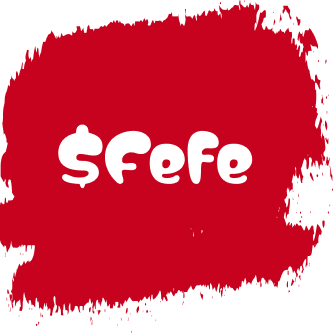
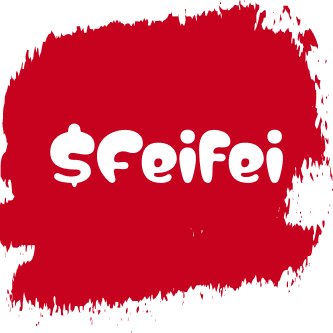
update content

Changed region(s): [[0.1502, 0.3604, 0.8709, 0.5706]]

diff --git a/app/page.tsx b/app/page.tsx
@@ -65,8 +65,8 @@ export default function Home() {
               alfaFont.variable
             )}
           >
-            FEFE, the biggest meme on TRON, every chain needs its Fefe, every
-            fefe has its day.
+            FEIFEI, the biggest meme on TRON, every chain needs its FeiFei,
+            every feifei has its day.
           </div>
           <div>
             <div
@@ -75,8 +75,10 @@ export default function Home() {
                 alfaFont.variable
               )}
             >
-              Everything is just fine, FEFE is very serious frog,  brings many
-              sunshines, many fun and much love to TRON.
+              FEIFEI is a laid back frog in this "FEARY" market. Everthing is
+              just fine cause FEIFEI is here, serious and brings many sunshine,
+              many fun and much loves to TRON. Remeber again, FEIFEI is here,
+              remember always be greddy when they&apos;re “FEARY”.
             </div>
           </div>
 
@@ -151,7 +153,7 @@ export default function Home() {
             alfaFont.variable
           )}
         >
-          © 2024 by Fefe. All rights reserved!
+          © 2024 by Feifei. All rights reserved!
         </div>
       </div>
     </div>

diff --git a/app/layout.tsx b/app/layout.tsx
@@ -15,8 +15,8 @@ const poorStoryFont = Poor_Story({
 });
 
 export const metadata: Metadata = {
-  title: 'Meet FEFE',
-  description: `$FEFE, the frog from Mindviscosity, go X420690 pump to the SUN`,
+  title: 'Meet FEIFEI',
+  description: `$FEIFEI, the frog from Mindviscosity, go X420690 pump to the SUN`,
 };
 
 export default function RootLayout({
